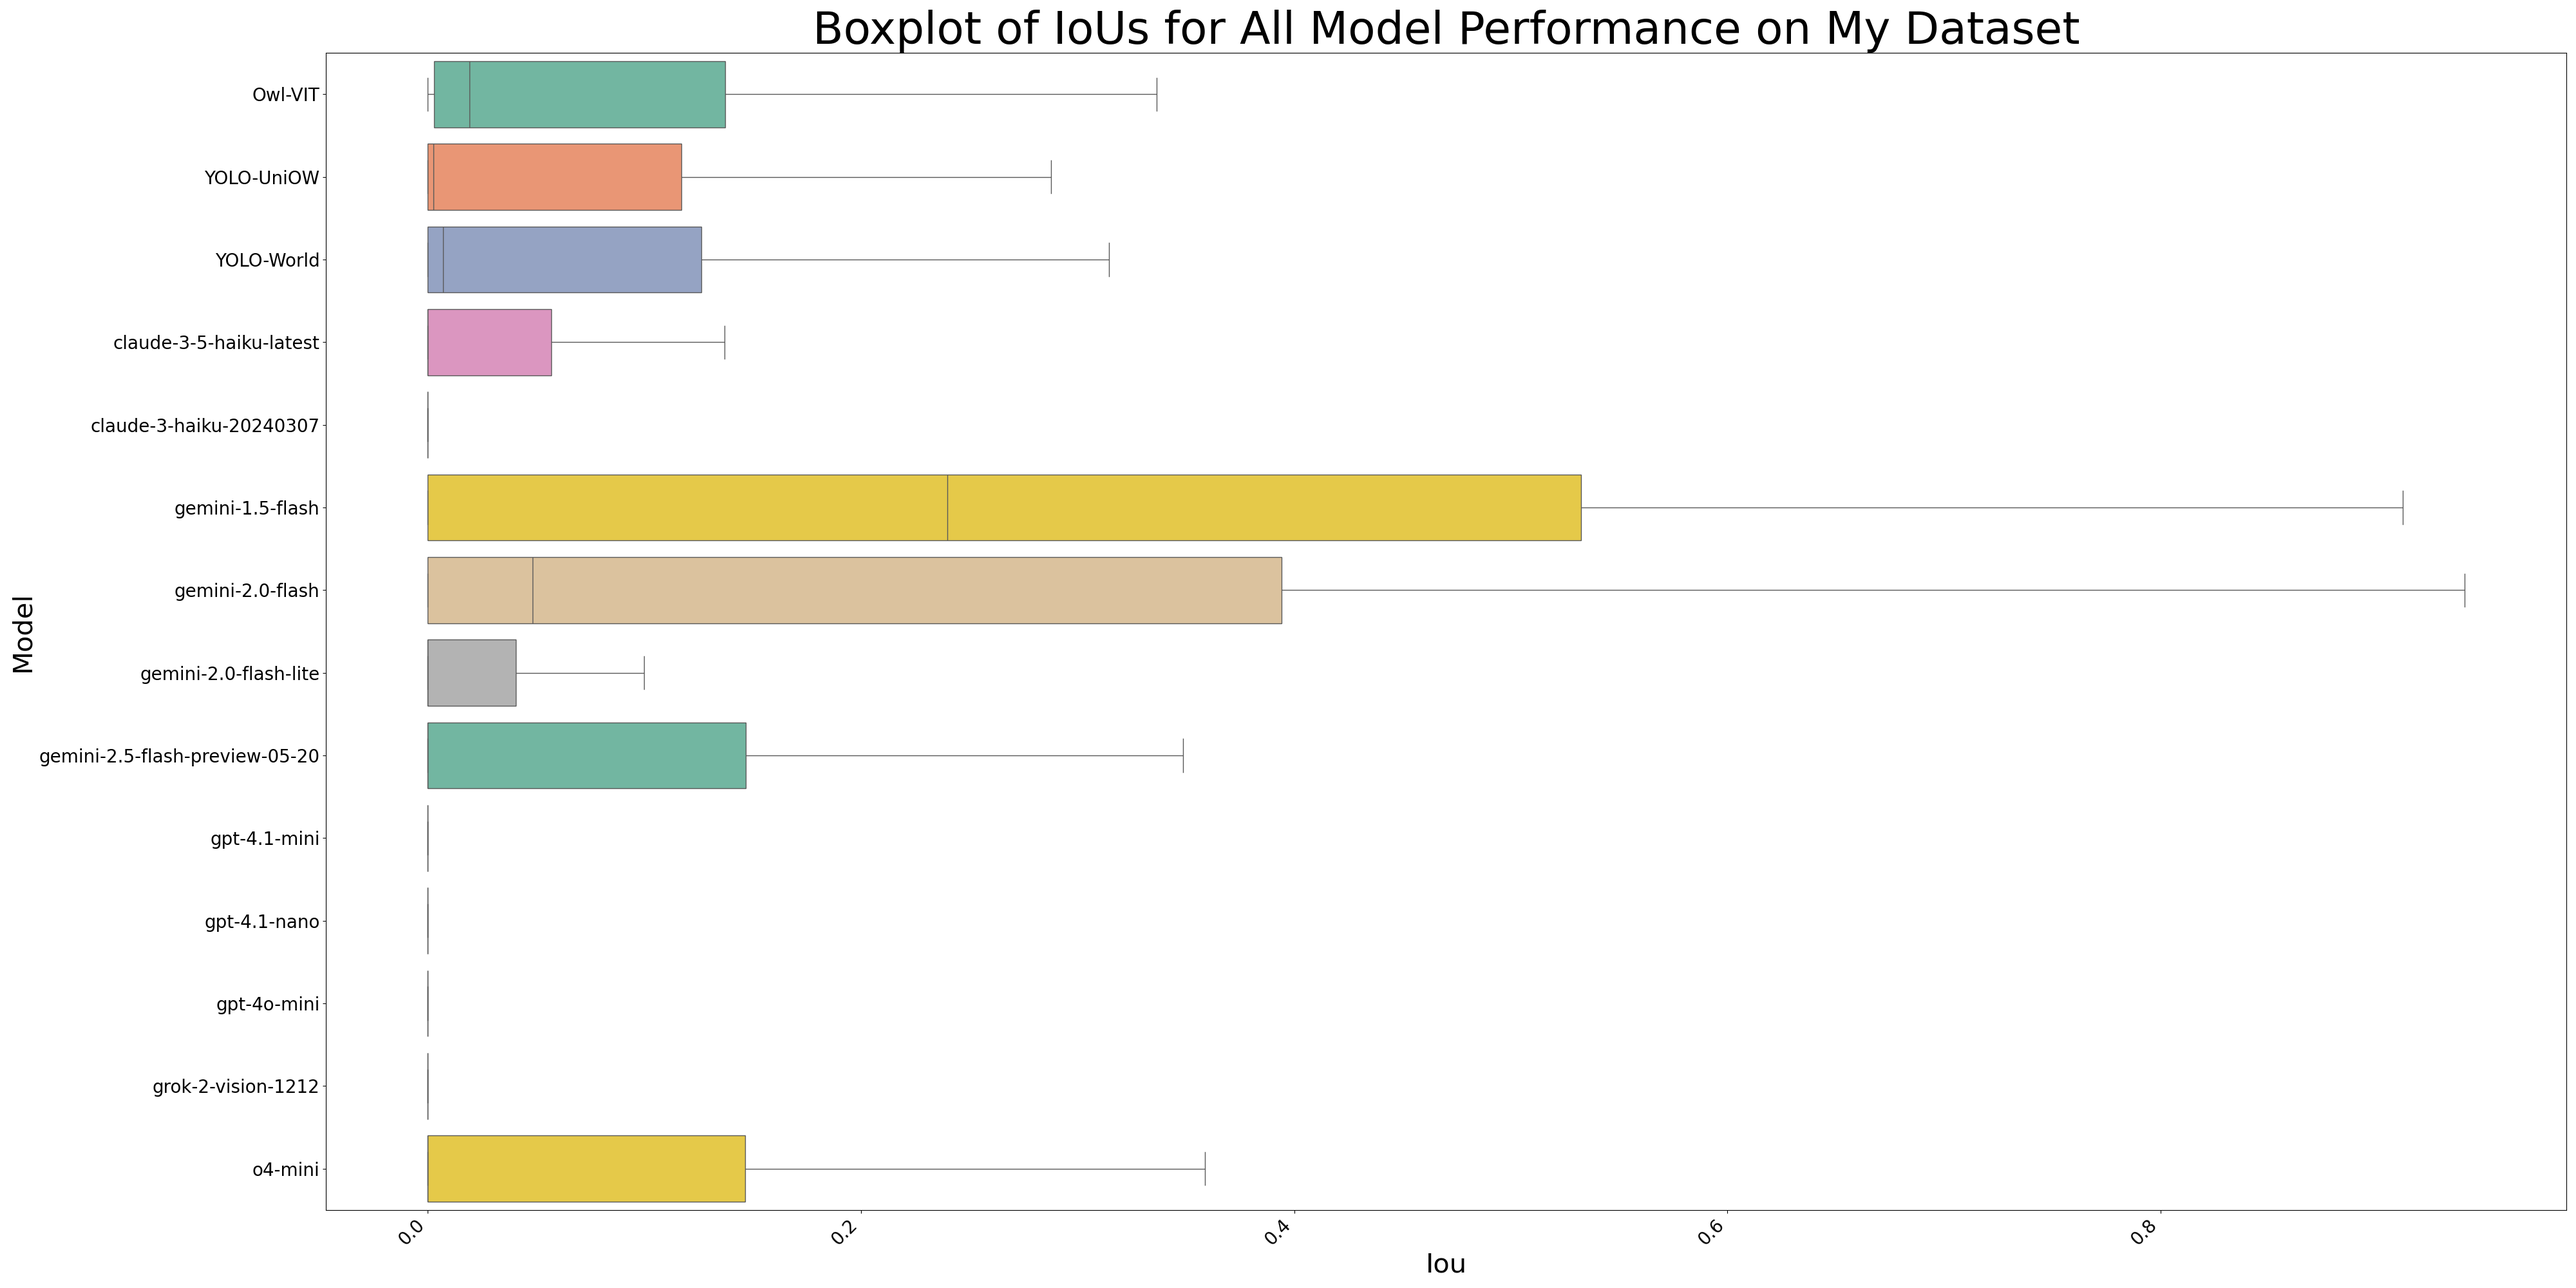
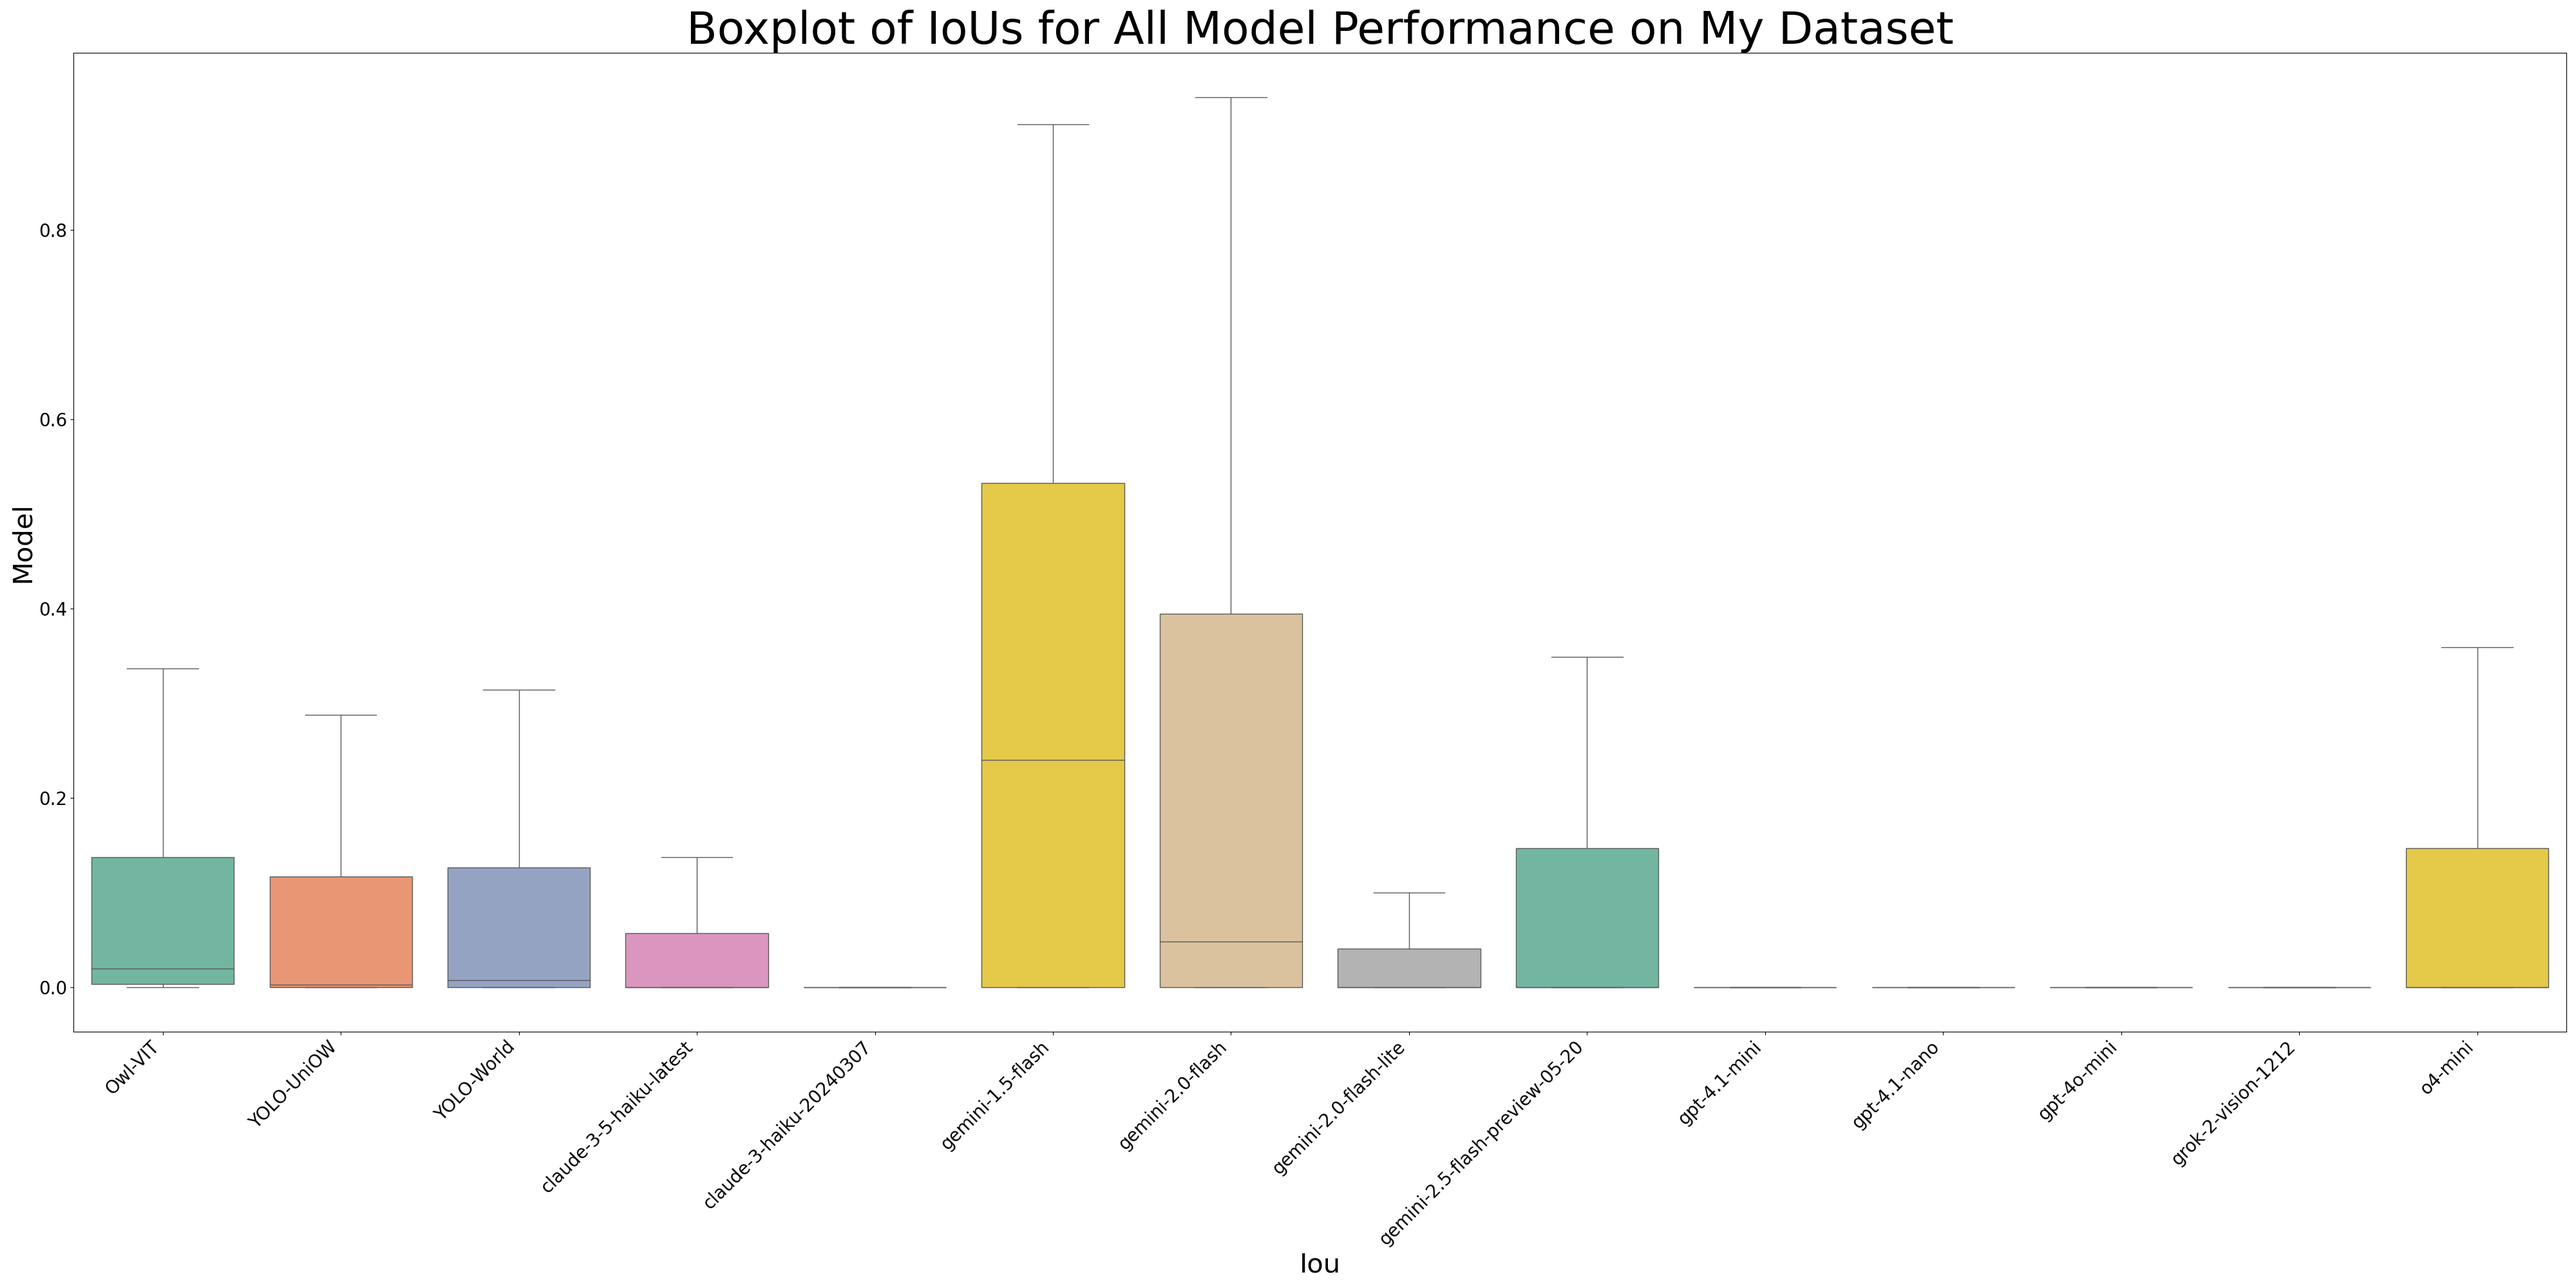
fixed some stuff

diff --git a/src/graph.py b/src/graph.py
@@ -17,10 +17,21 @@ tool_dict = {'drill' : 'drill', 'wacker' : 'weed_wacker', 'glue' : 'glue_gun', '
     'screwdriver' : 'screwdriver', 'wrench' : 'wrench', 'solder' : 'solder_iron', 'allen' : 'allen_key', 'hammer' : 'hammer'}
 models_regex = r"claude-3-5-haiku-latest|claude-3-haiku-20240307|gemini-1.5-flash|gemini-2.0-flash-lite|gemini-2.0-flash|gemini-2.5-flash-preview-05-20|grok-2-vision-1212|gpt-4.1-mini|gpt-4.1-nano|gpt-4o-mini|o4-mini"
 tool_remove_regex = r'screwdriver|glue gun'
+def check(path):
+    df = pd.read_csv(path, sep=';')
+    df.columns = df.columns.str.replace('"', '', regex=False).str.strip()
+    for i in df['iou'].values.tolist():
+        assert isinstance(i, float)
+        print(i, type(i))
+        # print(type())
+
+
+
 def plot_box_and_whiskers(iou_dict: dict = None):
     if iou_dict is None:
         assert 0 > 1
     df = pd.DataFrame(iou_dict)
+    breakpoint()
     print(df.columns.tolist())
     print(f'{len(df.columns.tolist())}=')
     # breakpoint()
@@ -31,7 +42,9 @@ def plot_box_and_whiskers(iou_dict: dict = None):
     print(df)
     df = df.melt(var_name="Noun", value_name="IoU")
     plt.figure(figsize=(40, 20))
-    sns.boxplot(x = 'IoU', y = 'Noun', data=df, palette='Set2', fliersize=0)
+    sns.boxplot(x='Noun', y='IoU', data=df, palette='Set2', showfliers=False)
+    # sns.stripplot(x='Noun', y='IoU', data=df, color='black', alpha=0.7, size=6, jitter=True)
+    # plt.ylim(0, 1.0)
     plt.xticks(rotation=45, ha="right")
     plt.yticks(fontsize=20)
     plt.xticks(fontsize=20)
@@ -40,7 +53,7 @@ def plot_box_and_whiskers(iou_dict: dict = None):
     plt.title('Boxplot of IoUs for All Model Performance on My Dataset', fontsize=50)
     plt.tight_layout()
     plt.show()
-    plt.savefig('src/best_all_model.png')
+    plt.savefig('src/best_all_mocdel.png')
 
 def plot_prediction_grid(csv_path, numb_of_imgs, gt_file='src/ground_truth.csv'):
     df = pd.read_csv(csv_path, sep=';', encoding='utf-8')
@@ -302,6 +315,7 @@ def get_img_paths_by_tool(csv_path):
 
 
 if __name__ == "__main__":
+    # check('results/grok-2-vision-1212.csv')
     plot_box_and_whiskers(aggregate_data())
     # plot_prediction_grid('results/yolo_world_v2_l_vlpan_bn_2e-3_100e_4x8gpus_obj365v1_goldg_train_1280ft_lvis_minival_2.csv', 64)
 

diff --git a/README.md b/README.md
@@ -2,7 +2,7 @@ Grasp VLM Prediction
 The goal is to see how vlms can produce bounding boxes for finger placements on tools. 
 PLEASE NOTE THAT GENERALLY INDEX FINGER OBJECTS ARE MORE DIFFICULT BECAUSE THEIR LABELLED BBOX IN THE DATASET ARE MUCH SMALLER.
 Results so far: 
-![IoUs for All Models(Including Owl VIT and YOLO UniOW)](src/best_all_model.png) 
+![IoUs for All Models(Including Owl VIT and YOLO UniOW)](src/best_all_model_swarm_box.png) 
 ![IoUs for Owl VIT and YOLO UniOW](src/best_noun_model.png)
 ![Prediction Grid for Gemini 1.5 Flash](results/gemini-1.5-flash_prediction_grid.png)  
 For owl, I experimented with prompting nouns, specifically with single word prompts vs. descriptive prompts. I later redid Owl to use the same prompts that I found worked best with YOLO, which fundamentally is slightly different because it uses wildcard embeddings and works by identifying bound boxes and then classifying.
